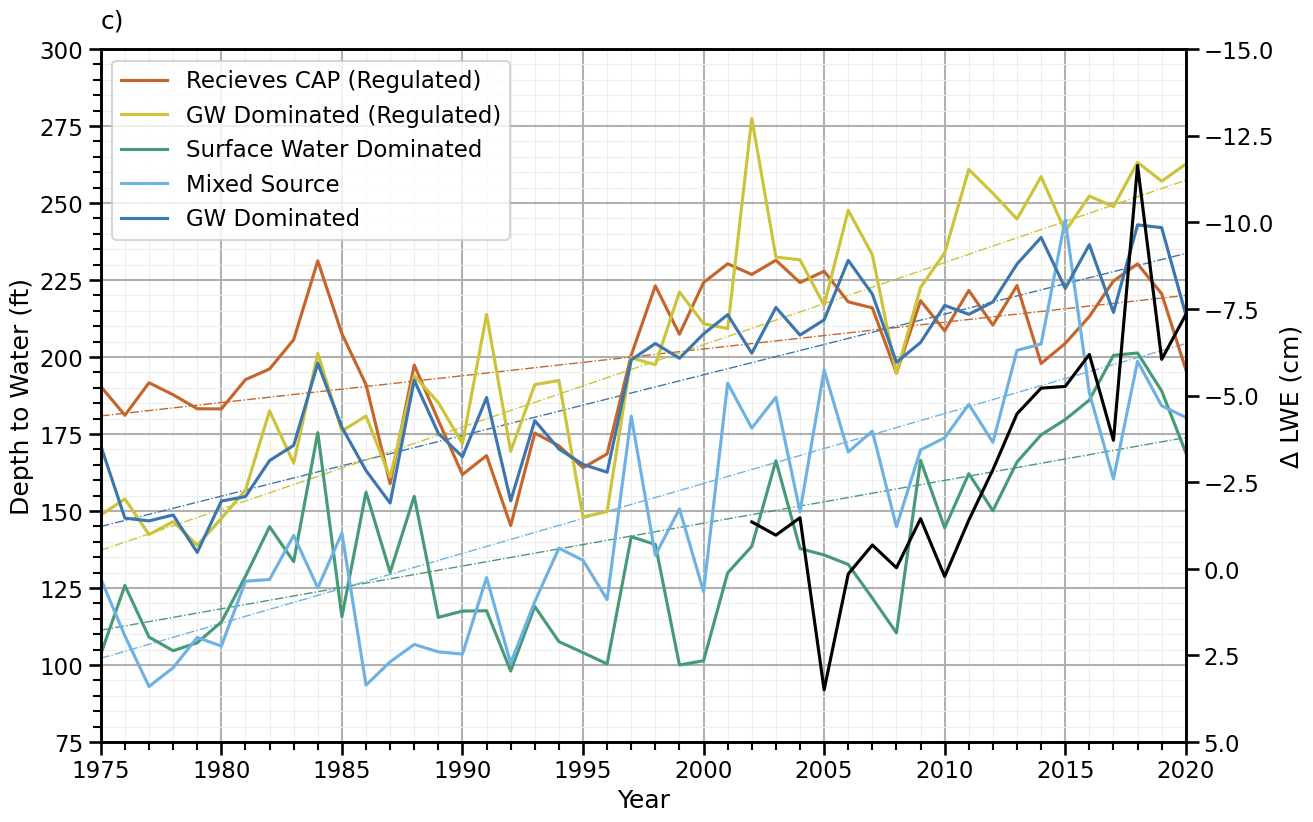
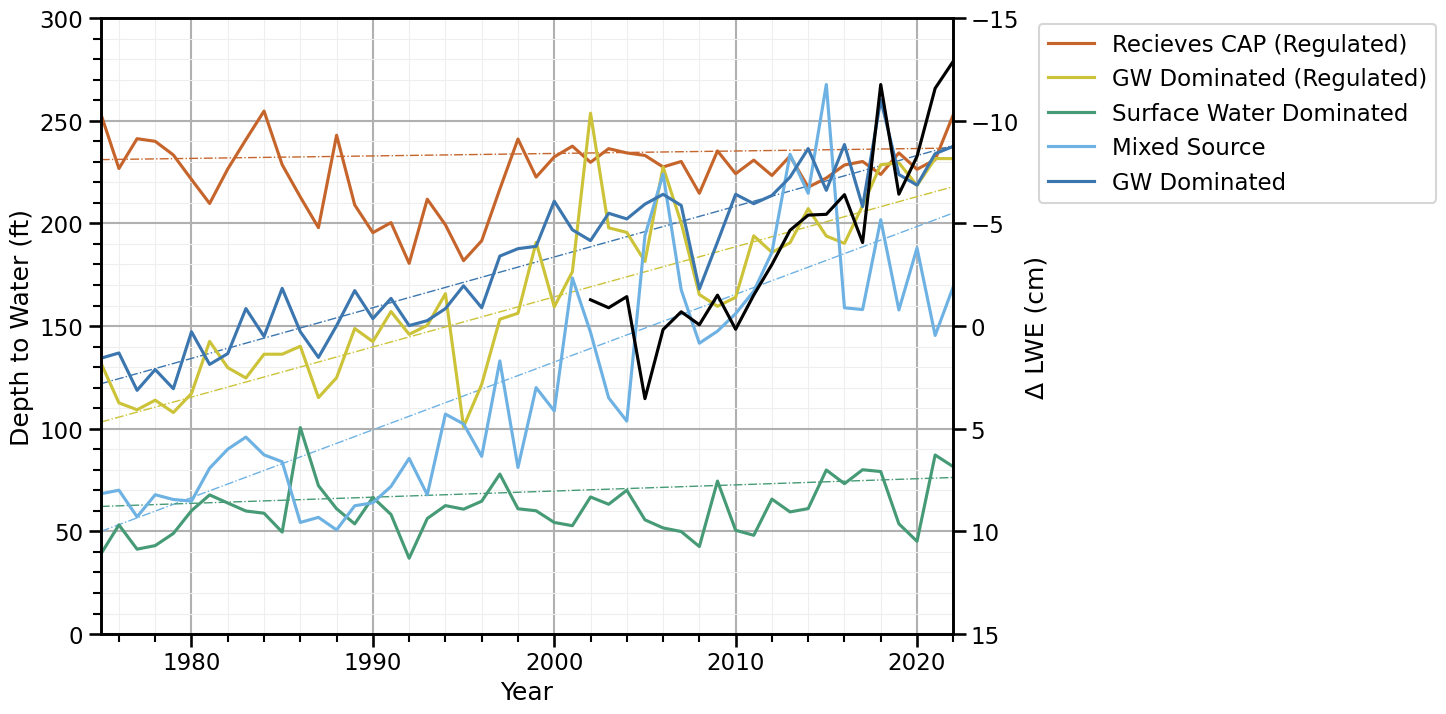
Fixing the figures

diff --git a/AnalysisCodes/Graphs.py b/AnalysisCodes/Graphs.py
@@ -145,15 +145,15 @@ dens_wdc3_wc_ex
 # %% Importing Water Level Values
 # For regulation
 # filepath = outputpath+'/Waterlevels_Regulation.csv'
-# filepath = outputpath+'/Waterlevels_Regulation_updated.csv'
-filepath = '../Data/Output_files/Waterlevels_Regulation_comboID.csv'
+filepath = outputpath+'/Waterlevels_Regulation_updated.csv'
+# filepath = '../Data/Output_files/Waterlevels_Regulation_comboID.csv'
 cat_wl2_reg = pd.read_csv(filepath, index_col=0)
 cat_wl2_reg.head()
 
 # For Access to SW
 # filepath = outputpath+'/Waterlevels_AccesstoSW.csv'
-# filepath = outputpath+'/Waterlevels_AccesstoSW_updated.csv'
-filepath = '../Data/Output_files/Waterlevels_AccesstoSW_comboID.csv'
+filepath = outputpath+'/Waterlevels_AccesstoSW_updated.csv'
+# filepath = '../Data/Output_files/Waterlevels_AccesstoSW_comboID.csv'
 cat_wl2_SW = pd.read_csv(filepath, index_col=0)
 cat_wl2_SW.head()
 
@@ -173,15 +173,6 @@ grace_yearly = grace_yearly[:-1]
 # Reading in the shapefile - note, figure 2 is created through QGIS
 filename_georeg = 'georeg_reproject_fixed.shp'
 filepath = os.path.join(shapepath_web, filename_georeg)
-# %% creating weights for the GW dominated categories
-georeg = gp.read_file(filepath)
-georeg.plot(cmap='viridis')
-georeg['area'] = georeg.geometry.area/10**6
-georeg_wcweights = georeg.groupby(['Water_CAT']).sum()
-nocap_area = georeg_wcweights.loc['No_CAP','area']
-gwdom_area = georeg_wcweights.loc['GW','area']
-nocap_wt = nocap_area/(nocap_area+gwdom_area)
-gwdom_wt = gwdom_area/(nocap_area+gwdom_area)
 
 # %% Creating colors
 # Matching map
@@ -771,8 +762,8 @@ plt.savefig(figurepath+'Figure6_def', bbox_inches='tight')
 # %% Figure 7a
 # For Depth to Water by regulation
 ds = cat_wl2_reg
-min_yr = 1960
-mx_yr = 2020
+min_yr = 1975
+mx_yr = 2022
 betterlabels = ['Regulated','Unregulated'] 
 
 # del ds['Res']
@@ -819,11 +810,11 @@ pval2 = round(stats1.loc['p_val', 'Unregulated'], 4)
 yf1 = (m1*xf)+yint1
 yf2 = (m2*xf)+yint2
 
-fig, ax = plt.subplots(1, 1, figsize = (7,5))
+fig, ax = plt.subplots(1, 1, figsize = (11,8))
 
 min_y = 0
 max_y = 300
-fsize = 12
+fsize = 18
 
 ax.plot(ds['R'], label='Regulated', color=cap) 
 ax.plot(ds['U'], label='Unregulated', color=GWdom) 
@@ -841,8 +832,9 @@ ax.set_xlabel('Year', fontsize=fsize)
 ax.set_ylabel('Depth to Water (ft)',fontsize=fsize)
 ax.minorticks_on()
 fig.set_dpi(600.0)
-# ax.set_title('a)',loc='left',pad=15)
-ax.legend(loc='upper left')
+ax.set_title('a)',loc='left',pad=15)
+# ax.legend(loc = [1.2,0.5])
+ax.legend(loc = "lower left")
 
 #Putting Grace on a secondary axis
 ax2 = ax.twinx()
@@ -851,12 +843,17 @@ ax2.set_ylim([15, -15])
 ax2.set_ylabel(u'Δ LWE (cm)',fontsize=fsize)
 ax2.legend(loc='lower right')
 
-# plt.savefig(figurepath+'Figure7a', bbox_inches = 'tight')
+# Combine legends for both axes
+# lines, labels = ax.get_legend_handles_labels()
+# lines2, labels2 = ax2.get_legend_handles_labels()
+# ax.legend(lines + lines2, labels + labels2, loc=[1.2,0.5])
+
+plt.savefig(figurepath+'Figure7a', bbox_inches = 'tight')
 
 # %% Figure 7c
 # For Depth to Water by SW Access
 ds = cat_wl2_SW
-min_yr = 1960
+min_yr = 1975
 mx_yr = 2022
 betterlabels = ['Recieves CAP (Regulated)'
                 ,'GW Dominated (Regulated)'
@@ -864,7 +861,7 @@ betterlabels = ['Recieves CAP (Regulated)'
                 ,'GW Dominated'
                 ,'Mixed Source'] 
 
-del ds['Res']
+# del ds['Res']
 
 f = ds[(ds.index >= min_yr) & (ds.index <= mx_yr)]
 columns = ds.columns
@@ -916,7 +913,7 @@ yf3 = (m3*xf)+yint3
 yf4 = (m4*xf)+yint4
 yf5 = (m5*xf)+yint5
 
-fig, ax = plt.subplots(1, 1, figsize = (7,5))
+fig, ax = plt.subplots(1, 1, figsize = (11,8))
 
 ax.plot(xf1, yf1,"-.",color=cap, lw=1)
 ax.plot(xf1, yf2,"-.",color=GWdom, lw=1)
@@ -926,7 +923,7 @@ ax.plot(xf1, yf5,"-.",color=swdom, lw=1)
 
 min_y = 0
 max_y = 300
-fsize = 12
+fsize = 18
 
 ax.plot(ds['CAP'], label=betterlabels[0], color=cap,zorder=2)
 ax.plot(ds['No_CAP'], label=betterlabels[1], color='#CCC339',zorder=2) 
@@ -952,7 +949,8 @@ ax2.plot(grace_yearly['0'], label='State Average LWE', color='k',zorder=1)
 ax2.set_ylim([15, -15])
 ax2.set_ylabel(u'Δ LWE (cm)',fontsize=fsize)
 # ax2.legend(loc='lower right')
+ax.legend(loc = [1.1,0.7])
 
-# plt.savefig(figurepath+'Figure7c', bbox_inches = 'tight')
+plt.savefig(figurepath+'Figure7c', bbox_inches = 'tight')
 
 # %%

diff --git a/AnalysisCodes/Spatial_Analysis_Wells_FinalGeoreg.py b/AnalysisCodes/Spatial_Analysis_Wells_FinalGeoreg.py
@@ -62,9 +62,10 @@ cat_wl2_SW = pd.read_csv(filepath, index_col=0)
 # %% -- Linear regression --
 # For Depth to Water by SW Access
 ds = cat_wl2_SW
+del cat_wl2_SW['Res']
 dt = "Access to Surface Water, Depth to Water (Updated Data)"
 min = 1975
-mx = 2020
+mx = 2022
 betterlabels = ['Recieves CAP (Regulated)'
                 ,'GW Dominated (Regulated)'
                 ,'Surface Water Dominated'
@@ -73,9 +74,10 @@ betterlabels = ['Recieves CAP (Regulated)'
 cf.linearregress(ds,dt,min,mx,betterlabels)
 #%%
 ds = cat_wl2_reg
+del cat_wl2_reg['Res']
 data_type = "Regulation, Depth to Water (Updated Data)"
 min = 1975
-mx = 2020
+mx = 2022
 betterlabels = ['Regulated','Unregulated'] 
 
 cf.linearregress(ds,data_type,min,mx,betterlabels)
